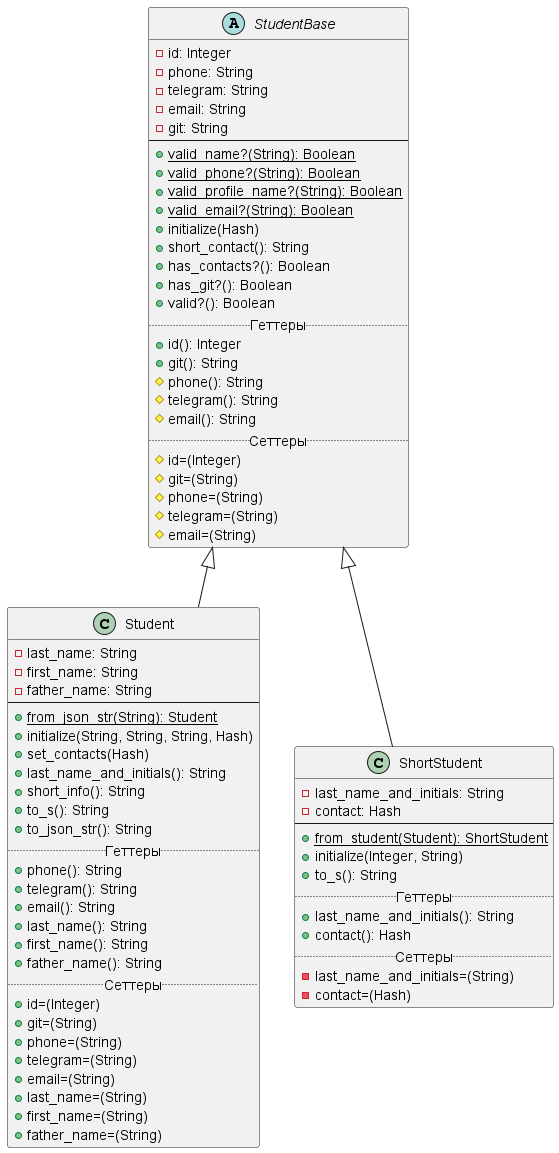
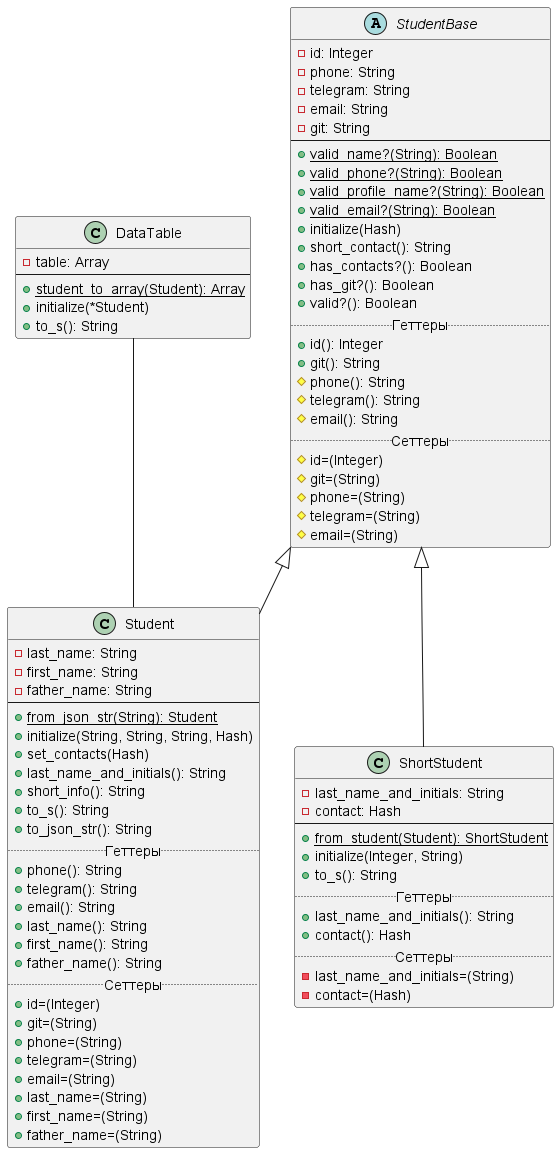
Класс DataTable (Лаб 2, Задание 3.1)

diff --git a/Lab2/data_table.rb b/Lab2/data_table.rb
@@ -1,0 +1,33 @@
+# frozen_string_literal: true
+
+require_relative 'student'
+
+class DataTable
+  def self.student_to_array(student)
+    [
+      student.id,
+      student.last_name,
+      student.first_name,
+      student.father_name,
+      student.phone,
+      student.telegram,
+      student.email,
+      student.git
+    ]
+  end
+
+  private
+
+  attr_accessor :table
+
+  public
+
+  def initialize(*students)
+    self.table = []
+    students.each { |student| table.append(DataTable.student_to_array(student)) }
+  end
+
+  def to_s
+    "DataTable (#{table.size} rows)"
+  end
+end

diff --git a/Lab2/main.rb b/Lab2/main.rb
@@ -2,6 +2,7 @@
 
 require_relative 'student'
 require_relative 'student_short'
+require_relative 'data_table'
 
 student1 = Student.new('Иванов', 'Иван', 'Иванович')
 student2 = Student.new('Сараев', 'Поджог', 'Равшанович', { id: 1, telegram: 'nightfire' })
@@ -63,3 +64,9 @@ puts student5.short_info
 
 short1 = StudentShort.from_student(student5)
 puts short1
+
+puts '--------------------------------'
+
+table = DataTable.new(student1, student2, student3, student4, student5)
+
+puts table
